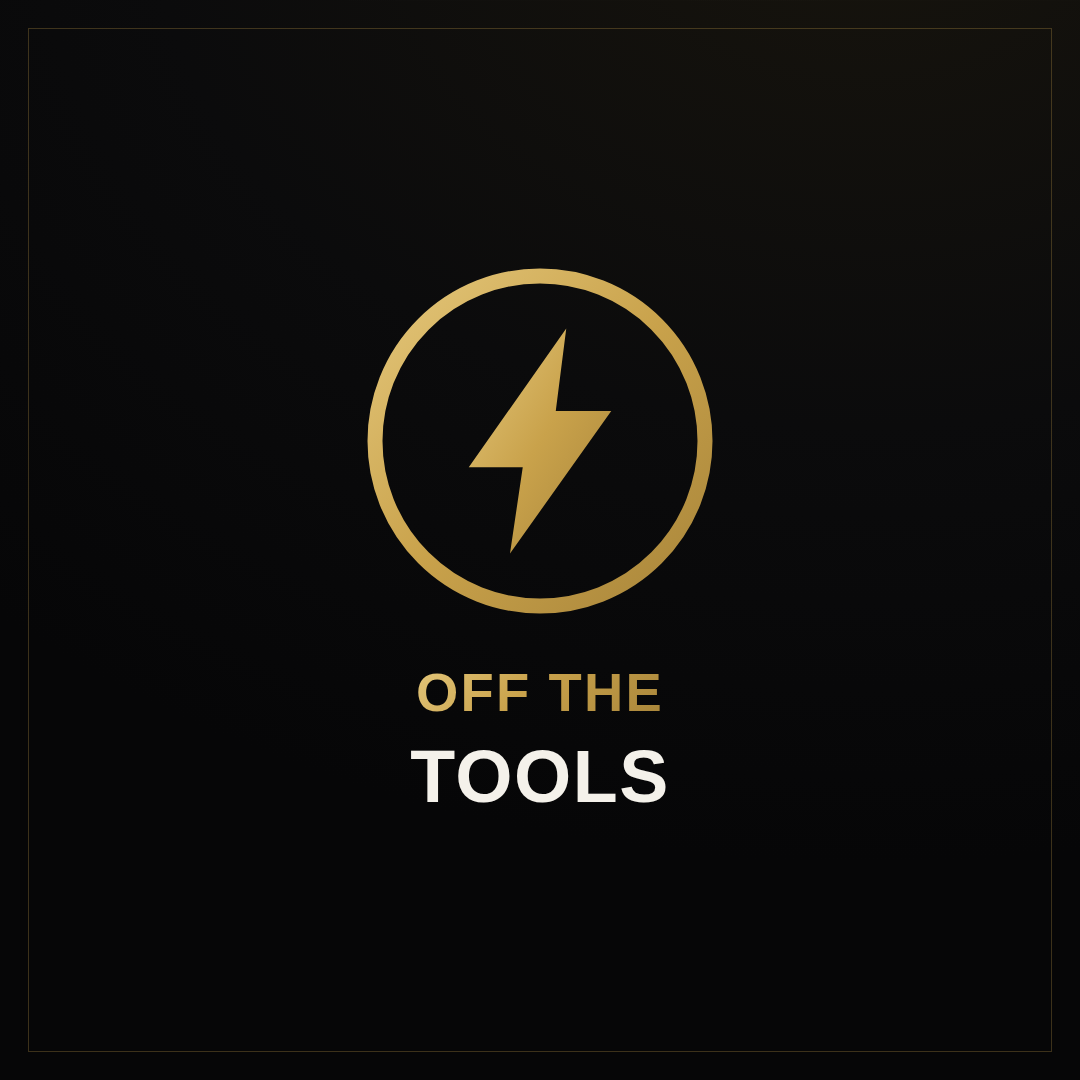
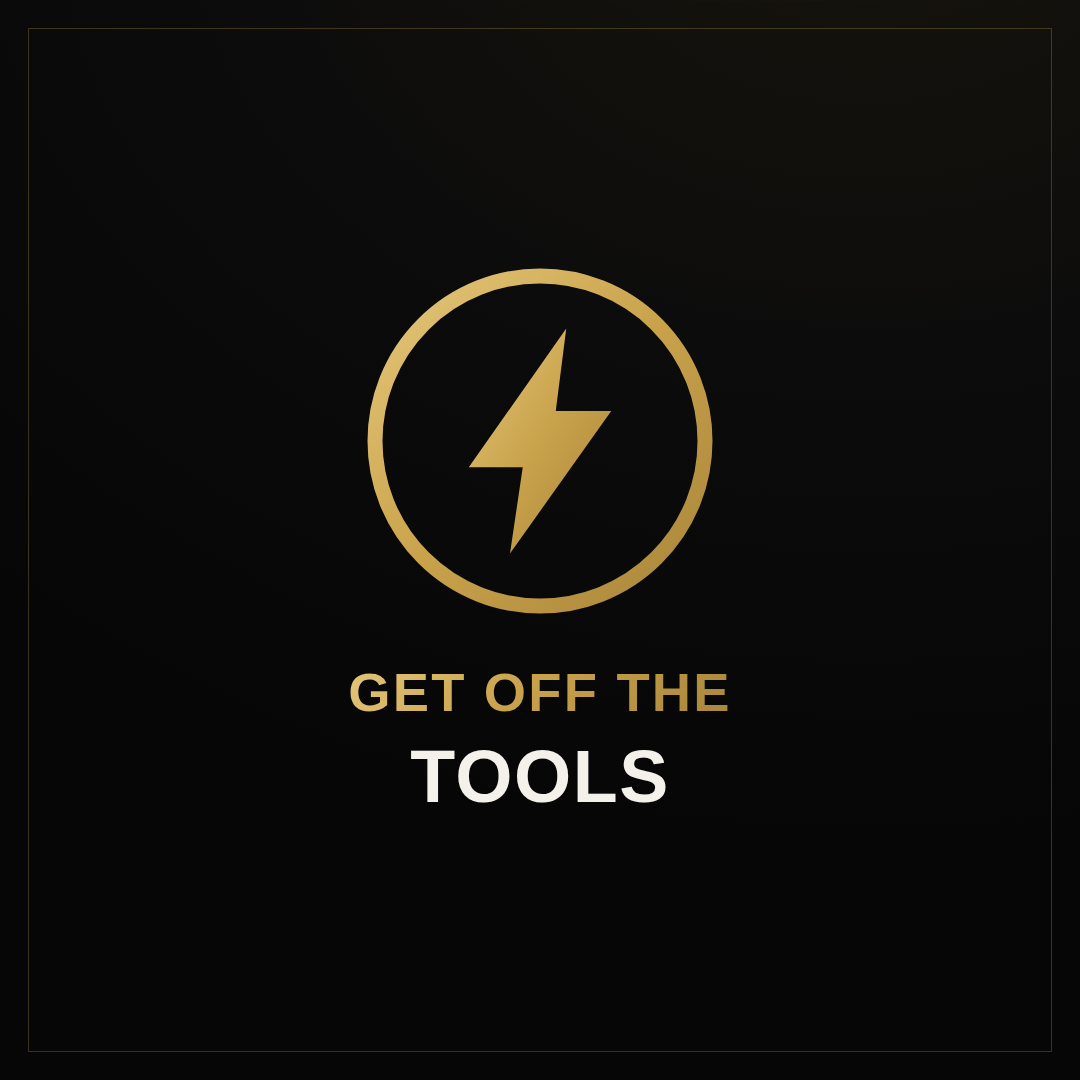
Rename to "Get Off The Tools" + make trade a swappable variable
- Brand renamed Off The Tools -> Get Off The Tools (logo, meta, OG, assets, PDF,
  email -> getoffthetools.co.uk).
- New `trade` block in site.js ({plural, singular, adjective}) drives descriptor,
  strapline, logo sub-line and hero eyebrow — so launching "Get Off The Tools
  for Roofers / Plumbers" later is a one-line change.
- Regenerated brand-assets PNGs + lead-magnet PDF with the new name.

Claude-Session: https://claude.ai/code/session_01SWHEmqLCxcZjkFY3DMybVq

Changed region(s): [[0.3056, 0.6111, 0.6722, 0.6722]]

diff --git a/src/data/site.js b/src/data/site.js
@@ -8,18 +8,32 @@
 //  Edit business details here. Items marked  // TODO  need Jamie's real info.
 // =============================================================================
 
+// =============================================================================
+//  TRADE  — the audience this edition targets.
+//  Swap this one block to launch "Get Off The Tools for Roofers / Plumbers /…"
+//  Copy, logo and meta that reference it update automatically. Note: a few
+//  electrician-specific flourishes (the "rewire" pun, "sparks", "consumer
+//  unit") live in the page copy and would be re-themed per trade.
+// =============================================================================
+const trade = {
+  plural: 'electricians',
+  singular: 'electrician',
+  adjective: 'electrical',
+};
+
 export const site = {
+  trade,
   // --- Brand -----------------------------------------------------------------
-  name: 'Off The Tools',
-  legalName: 'Off The Tools',             // TODO: registered trading name
+  name: 'Get Off The Tools',
+  legalName: 'Get Off The Tools',         // TODO: registered trading name
   // The hook + the promise.
   tagline: 'Stop being the business. Start owning one.',
   // Brand strapline (electrical pun — transformation + what we do).
-  strapline: 'Rewiring electricians’ businesses.',
+  strapline: `Rewiring ${trade.plural}’ businesses.`,
   // One-line descriptor of who it's for.
-  descriptor: 'Premium websites & online presence for electricians.',
+  descriptor: `Premium websites & online presence for ${trade.plural}.`,
   url: 'https://jamie822.github.io/One',  // live (GitHub Pages); swap for real domain
-  logoText: 'OTT',                        // monogram
+  logoText: 'GOTT',                       // monogram
 
   // --- Brand colour (Dark Luxe: brushed gold on near-black) ------------------
   brandColor: '#c9a24b',                  // brushed gold
@@ -37,7 +51,7 @@ export const site = {
   // --- Contact ---------------------------------------------------------------
   phone: '07300 000 000',                 // TODO
   phoneHref: '+447300000000',             // TODO
-  email: 'hello@offthetools.co.uk',       // TODO
+  email: 'hello@getoffthetools.co.uk',    // TODO
   bookingUrl: '/contact',                 // TODO: Calendly/booking link if you have one
   hoursShort: 'Mon – Fri: 9:00 – 5:30',
 
